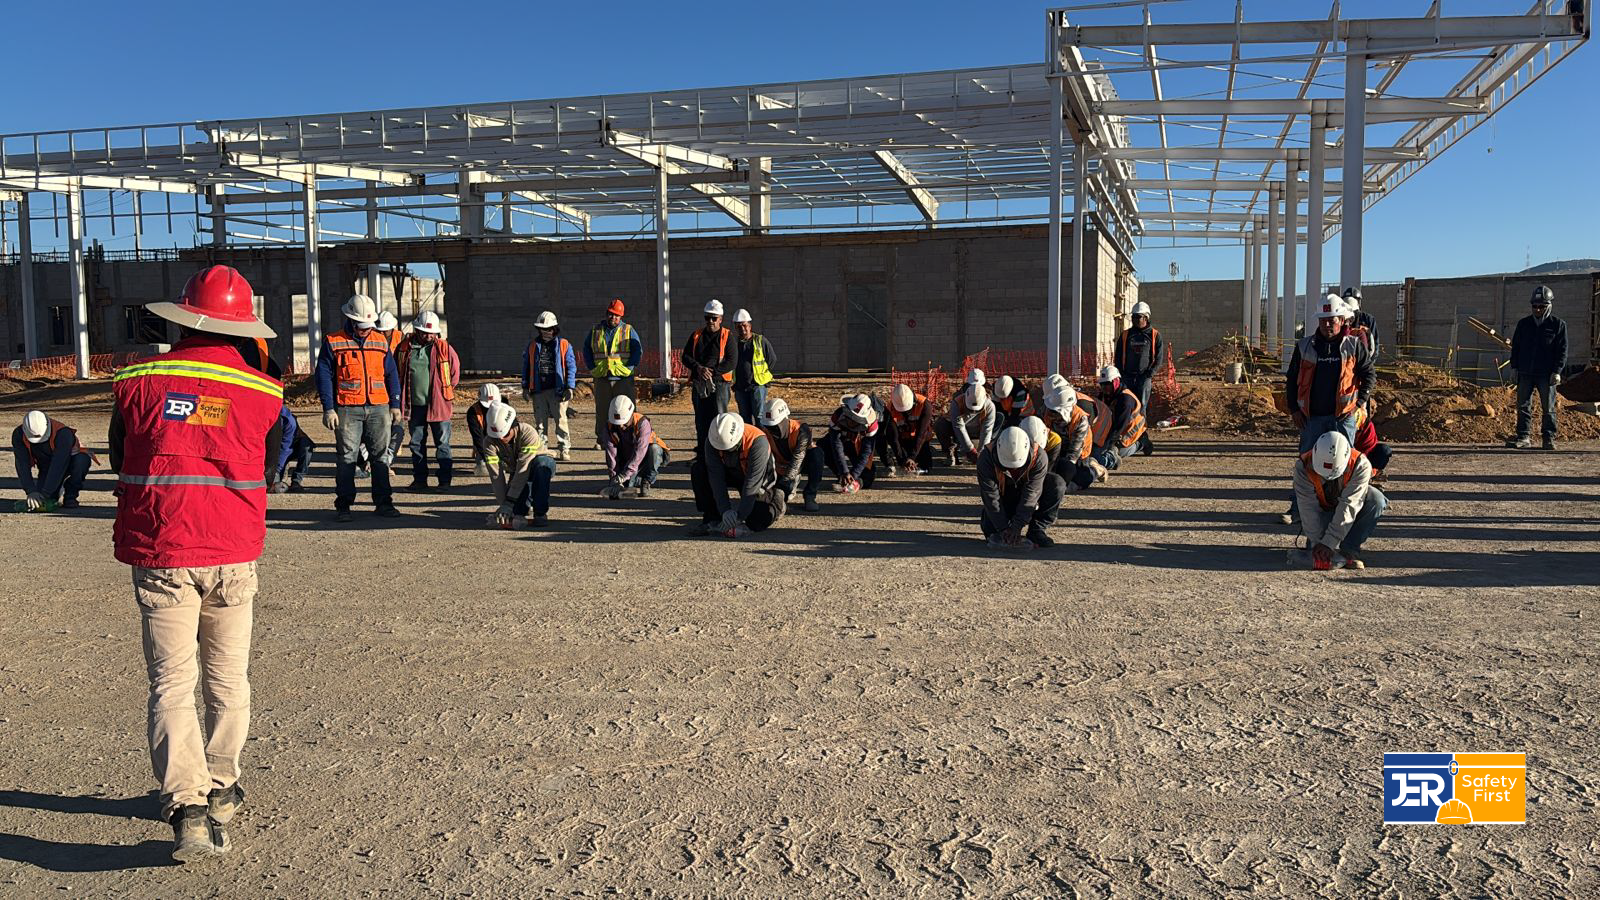
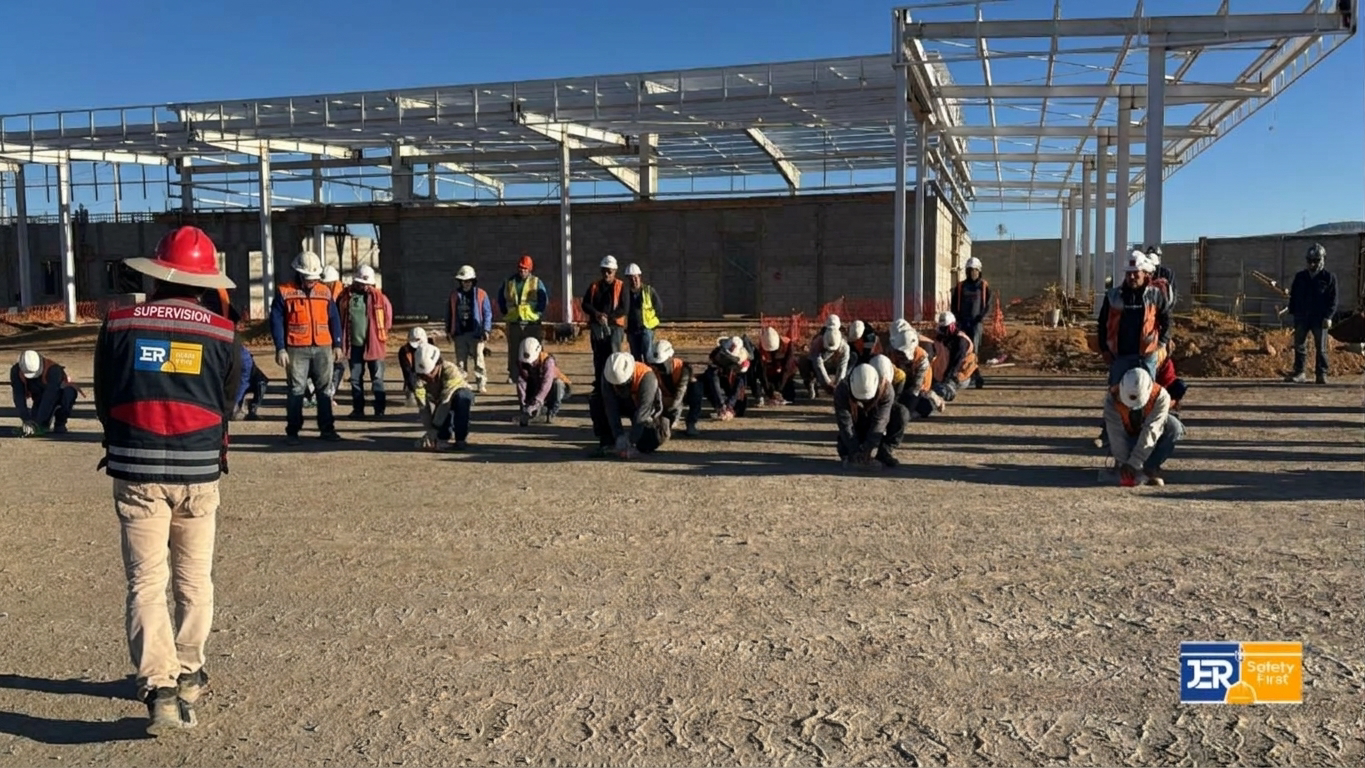
Deploy/gha on MAIN branch

diff --git a/index.html b/index.html
@@ -86,13 +86,6 @@
 </div>
 </header>
 
-
-
-
-
-
-
-
 <!-- Hero Section -->
 <main class="flex-1 pt-64">
 <!-- <div class="px-4 md:px-10 lg:px-40 py-5"> -->
@@ -210,9 +203,7 @@
             <div class="carousel-slide absolute inset-0 opacity-100 z-10">
                 <img alt="Safety engineer inspecting machinery" class="w-full h-full object-cover" data-alt="Safety engineer inspecting complex industrial machinery" src="./src/img/multimedia/BOSQUE_MANANA.webp"/>
             </div>
-            <div class="carousel-slide absolute inset-0 opacity-100 z-10">
-                <img alt="Safety engineer inspecting machinery" class="w-full h-full object-cover" data-alt="Safety engineer inspecting complex industrial machinery" src="./src/img/multimedia/EQUIPO_JER_OFICINAS.webp"/>
-            </div>
+      
         </div>
     </div>
 </div>
@@ -281,8 +272,8 @@
   <div class="flex flex-col lg:flex-row items-center gap-16">
     <div class="w-full lg:w-1/2 relative gap-36">
       <div class="grid grid-cols-2">
-        <img class="rounded-xl shadow-lg w-full h-48 object-cover" src="./src/img/multimedia/COLADO_1.webp" alt="Factory worker operating industrial machinery safely"/>
-        <img class="rounded-xl shadow-lg w-full h-48 object-cover mt-8" src="./src/img/multimedia/SUPERVISION.webp" alt="Two engineers discussing technical plans on site"/>
+        <img class="rounded-xl shadow-lg w-full h-48 object-cover" src="./src/img/multimedia/CALISTENIA.webp" alt="Factory worker operating industrial machinery safely"/>
+        <img class="rounded-xl shadow-lg w-full h-48 object-cover mt-8" src="./src/img/multimedia/BOSQUE_MANANA.webp" alt="Two engineers discussing technical plans on site"/>
       </div>
       <button id="btnShowModalGaleria" class="absolute top-1/2 left-1/2 -translate-x-1/2 -translate-y-1/2 bg-primary text-white p-8 rounded-2xl shadow-2xl flex flex-col items-center cursor-pointer hover:scale-105 transition duration-700 ease-in-out">
         <span class="text-4xl font-black">Visitar</span>
@@ -687,11 +678,7 @@ r:cursor-pointer  hover:scale-105 hover:transition duration-700 ease-in-out grou
 </div>
 <!-- Item 3: Vertical Detail (1x2) -->
 <div class="gallery-item relative md:col-span-1 rounded-3xl overflow-hidden border border-gray-100 dark:border-gray-800 bento-bg shadow-sm">
-<img class="h-full w-full object-cover" data-alt="High tech industrial manufacturing facility" src="./src/img/multimedia/SUPERVISION_ELECTRICA.JPG"/>
-</div>
-<!-- Item 4: Vertical Detail (1x2) -->
-<div class="gallery-item relative md:col-span-1 rounded-3xl overflow-hidden border border-gray-100 dark:border-gray-800 bento-bg shadow-sm">
-<img class="h-full w-full object-cover" data-alt="High tech industrial manufacturing facility" src="./src/img/multimedia/JER_INAUGURACION.jpeg"/>
+<img class="h-full w-full object-cover" data-alt="High tech industrial manufacturing facility" src="./src/img/multimedia/SUPERVISION_ELECTRICA.webp"/>
 </div>
 </div>
 </div>
